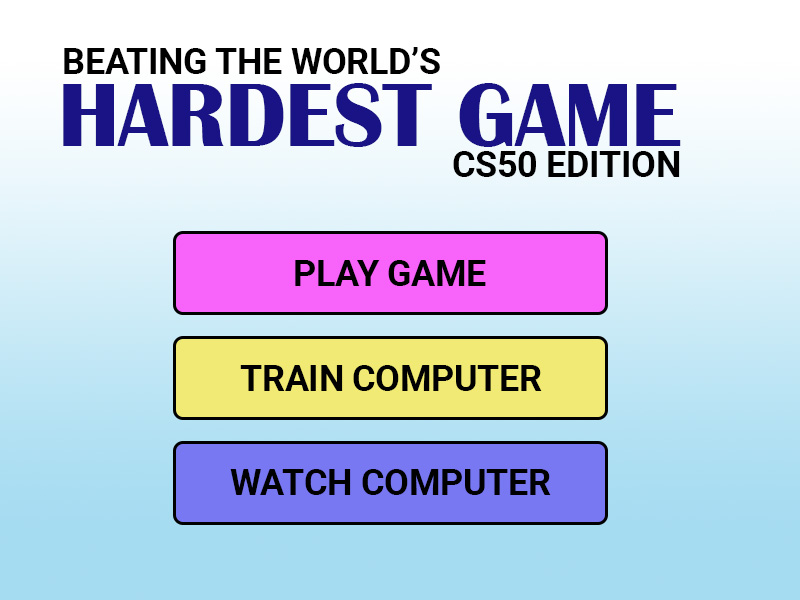
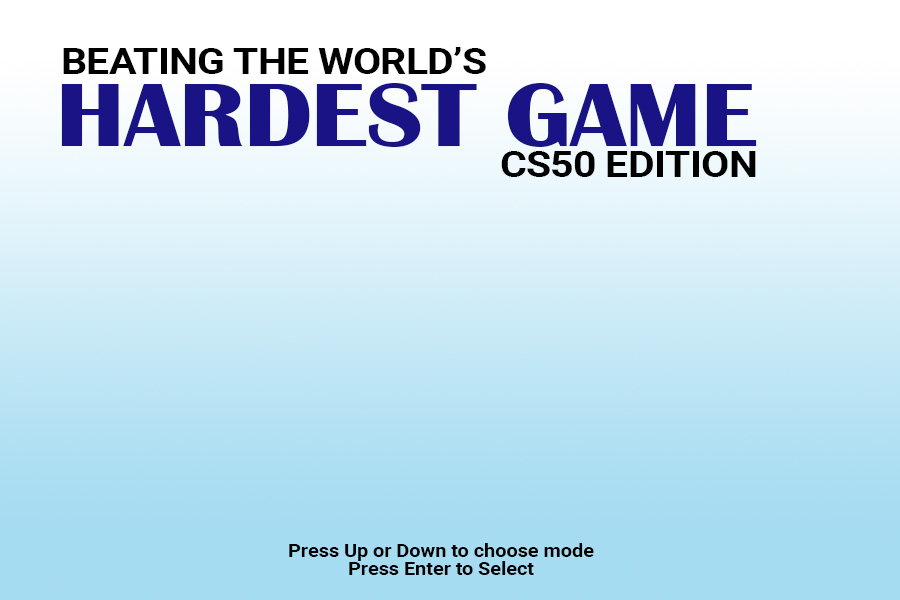
level select

Changed region(s): [[0.2188, 0.36, 0.7812, 0.96], [0.0625, 0.06, 0.875, 0.3]]

diff --git a/Game Test/game.py b/Game Test/game.py
@@ -23,6 +23,10 @@ red = (255, 0, 0)
 green = (0, 255, 0)
 blue = (0, 0, 255)
 
+# define velocities
+vel_left = 1
+vel_right = -1
+
 # show text on screen (this probs is not the best way to do this...)
 def draw_text(text, font, text_col, x, y, screen):
 	img = font.render(text, True, text_col)
@@ -127,7 +131,6 @@ def main():
 	clock = pygame.time.Clock()
 	fps = 20
 
-	walls = pickle.load(open("Game Test/level_data/walls_2.dat", "rb"))
 	#walls = []
 
 	#for x in range(WIDTH):
@@ -144,16 +147,12 @@ def main():
 	#for x in range(10, HEIGHT):
 	#	walls.append((42, x))
 
-	screen = pygame.display.set_mode((screen_width, screen_height), 0, 32)
 	pygame.display.set_caption('Worlds Hardest Game')
 
 
 	goal = Goal(END[0], END[1])
-
-	vel_left = 1
-	vel_right = -1
-
-	obstacles = pickle.load(open("Game Test/level_data/obs_2.dat", "rb"))
+	
+	screen = pygame.display.set_mode((screen_width, screen_height), 0, 32)
 
 	#obstacles = [[
 	#		Obstacle(31, 11, vel_left),
@@ -179,9 +178,6 @@ def main():
 
 	homepage = True
 	gamemode = 0
-
-	board = get_board(WIDTH, HEIGHT, walls)
-	path = find_path(board, START, END)
 	# print(path)
 	
 	run = True
@@ -190,7 +186,7 @@ def main():
 		clock.tick(fps)
 
 
-		image = pygame.image.load('Game Test/homepage2.jpg')
+		image = pygame.image.load('Game Test/homepage.jpg')
 		pygame.draw.ellipse(image, red, (230, 265 + gamemode * 60, 20, 20))
 		draw_text("PLAY GAME", homepage_font, black, 280, 250, image)
 		draw_text("TRAIN COMPUTER", homepage_font, black, 280, 310, image)
@@ -290,6 +286,40 @@ def main():
 					pygame.quit()
 
 	else:
+		levelSelect = True
+		level = 0
+
+		while levelSelect:
+			clock.tick(fps)
+
+			image = pygame.image.load('Game Test/level_select.jpg')
+			pygame.draw.ellipse(image, red, (230, 265 + level * 60, 20, 20))
+			draw_text("LEVEL 1", homepage_font, black, 280, 250, image)
+			draw_text("LEVEL 2", homepage_font, black, 280, 310, image)
+			draw_text("LEVEL 3", homepage_font, black, 280, 370, image)
+
+			screen.blit(image, (0,0))
+
+			for event in pygame.event.get():
+				if event.type == pygame.QUIT:
+					run = False
+
+			keys = pygame.key.get_pressed()
+			if keys[pygame.K_UP]:
+				level = (level - 1) % 3 
+			elif keys[pygame.K_DOWN]:
+				level = (level + 1) % 3 
+			elif keys[pygame.K_RIGHT] or keys[pygame.K_RETURN]:
+				level += 1
+				levelSelect = False
+
+			pygame.display.update()
+		
+		walls = pickle.load(open("Game Test/level_data/walls_" + str(level) + ".dat", "rb"))
+		obstacles = pickle.load(open("Game Test/level_data/obs_" + str(level) + ".dat", "rb"))
+		board = get_board(WIDTH, HEIGHT, walls)
+		path = find_path(board, START, END)
+
 		if gamemode == 1:
 			population = Population(100, START[0], START[1], END[0], END[1], 300, path)
 
@@ -322,7 +352,7 @@ def main():
 				if allDead:
 					population.calculateFitness()
 					population.naturalSelection()
-					population.save(2)
+					# population.save(2)
 					population.mutateBabies()
 				else:
 					population.update(walls, obstacles[1])
